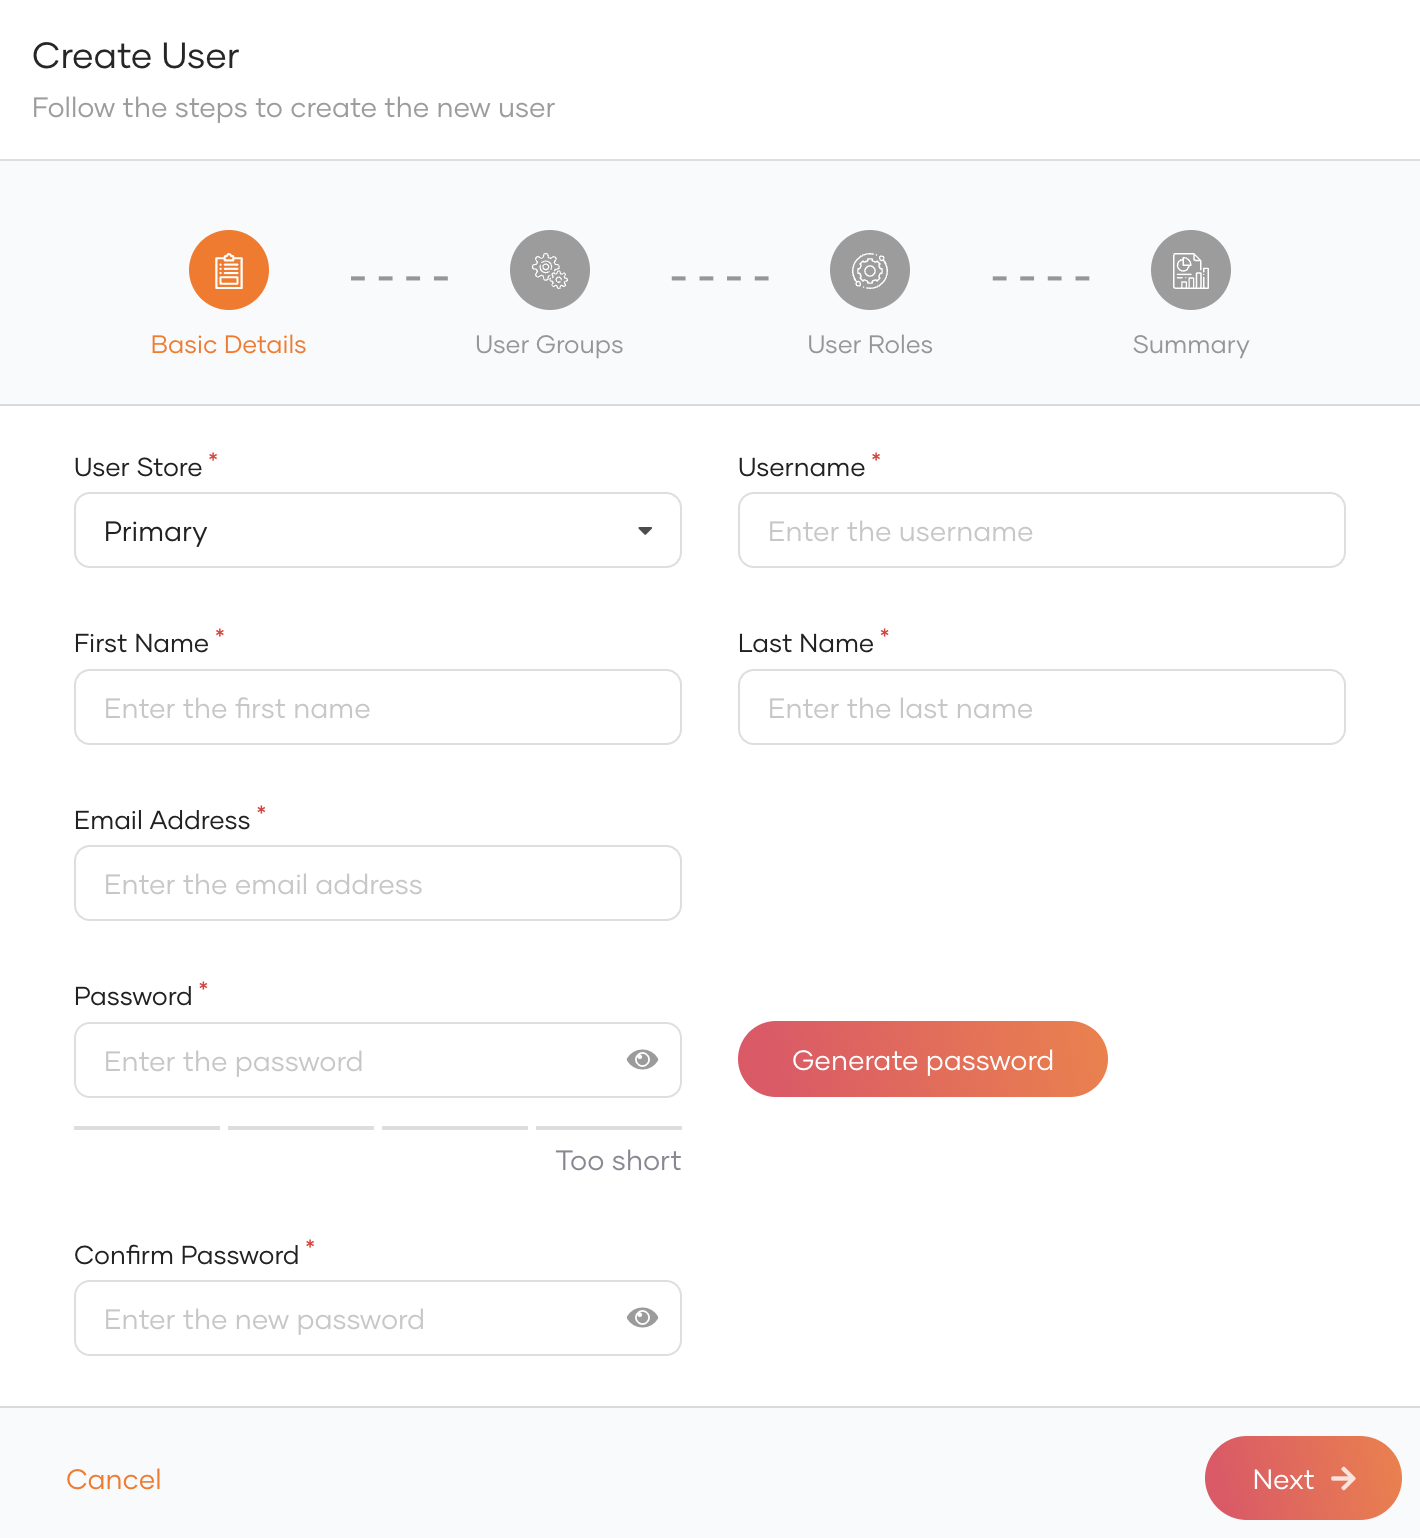
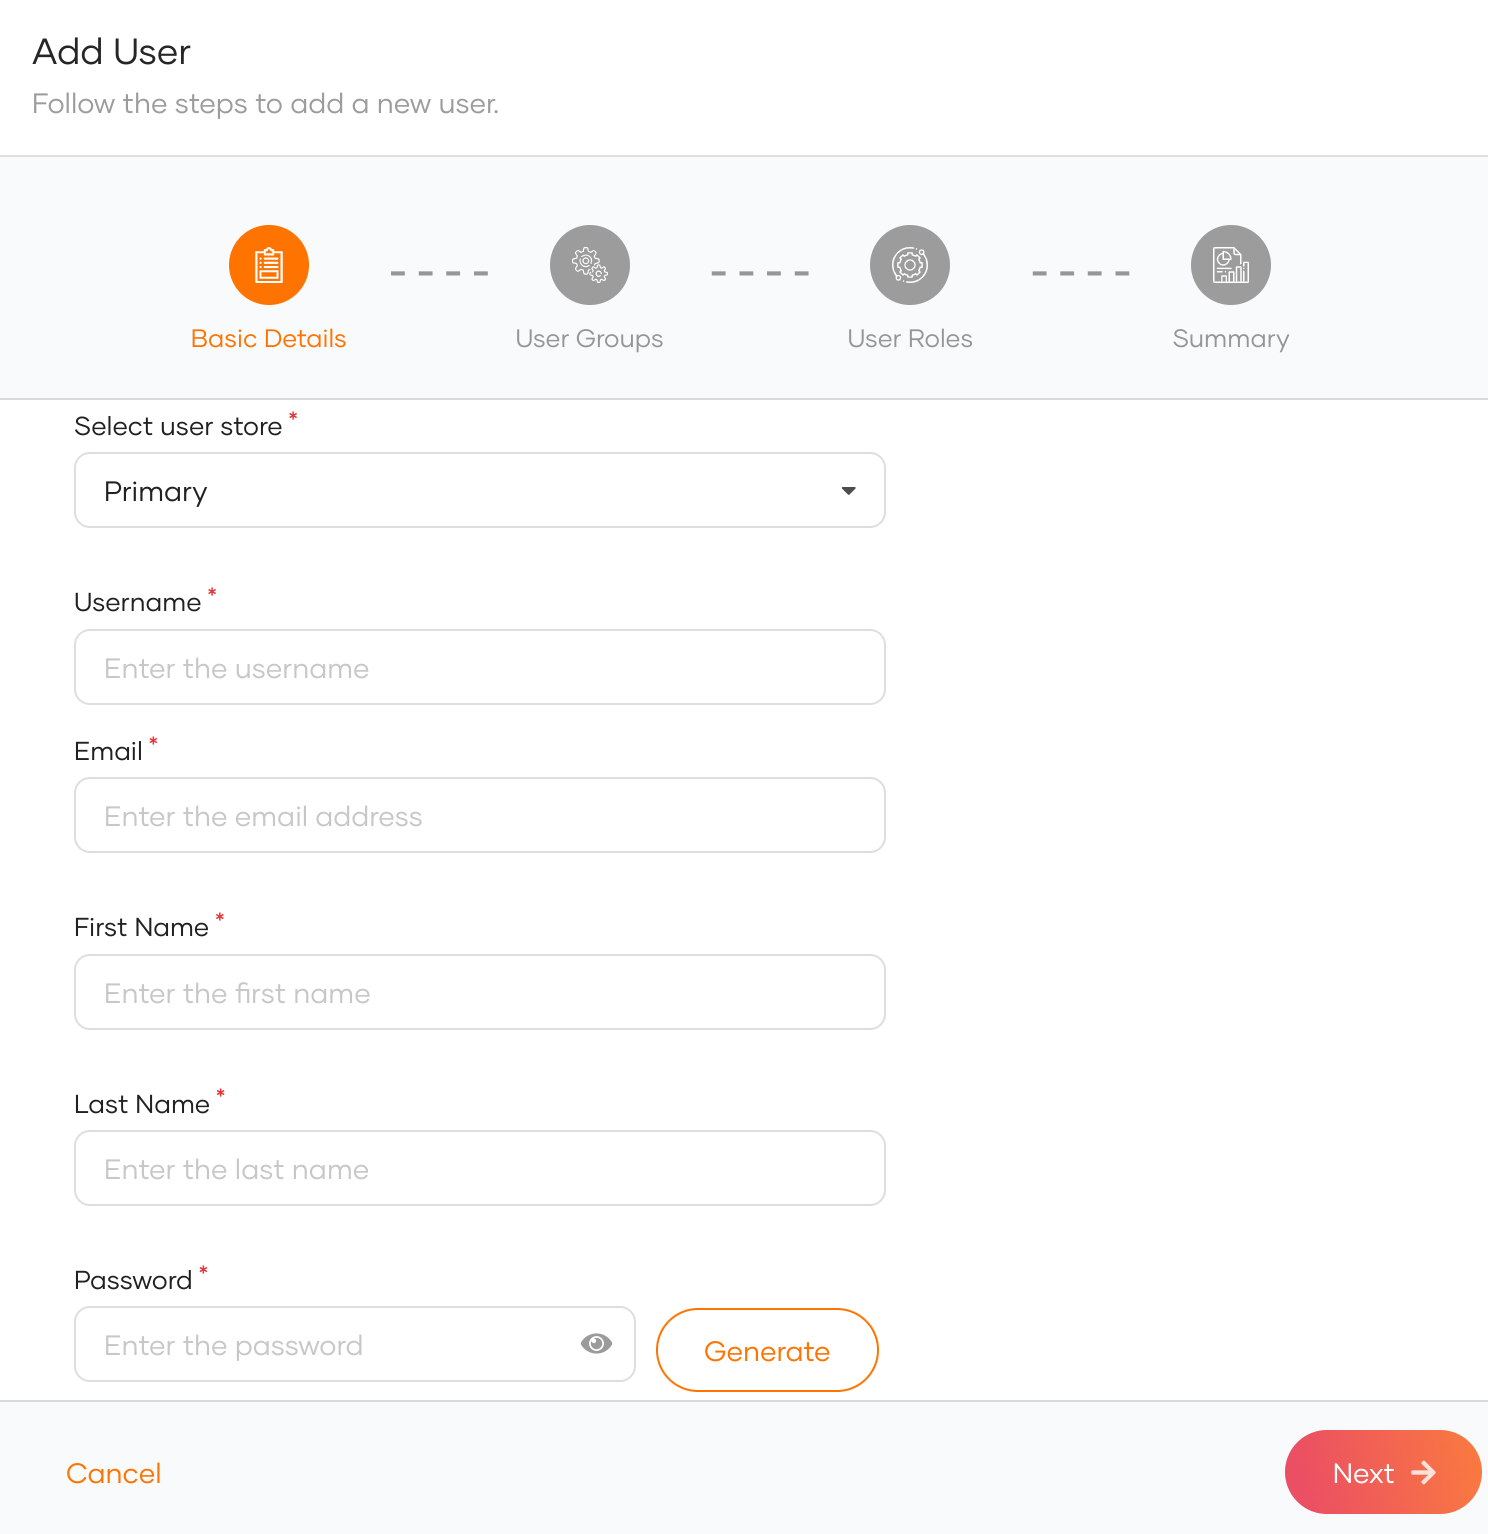
Update user management related docs

diff --git a/en/identity-server/next/docs/guides/users/manage-administrators.md b/en/identity-server/next/docs/guides/users/manage-administrators.md
@@ -9,40 +9,47 @@ This guide walks you through the steps of managing an administrator account. If 
 
 Administrators of your organization can follow the steps below to add another administrator:
 
-1. On the WSO2 Identity Server Console, go to **Organizational Settings** > **Administrators**.
+1. On the WSO2 Identity Server Console, go to **User Management** > **Users**.
 
-2. Click **Add Administrator** and provide the required details.
+2. Click **Add User** and provide the required details.
 
-    ![Add administrator user]({{base_path}}/assets/img/guides/users/add-administrator.png){: width="600" style="display: block; margin: 0 auto; border: 0.3px solid lightgrey;"}
+    ![Add administrator user]({{base_path}}/assets/img/guides/users/add-user-form.png){: width="600" style="display: block; margin: 0 auto; border: 0.3px solid lightgrey;"}
 
-3. Click **Next** to view the summary and click **Finish**.
+3. Click **Next**.
+
+4. Add the user to the **admin** group and click **Next**.
+
+5. Assign the user **Administrator** role and click **Next**.
+
+6. Review the summary and click **Finish**.
 
     !!! note
-        Once created, an administrator will be assigned the admin role and be made a member of the admin group.
+        The created administrator will be listed in the **Console Settings** page under the **Members** tab.
+
+        ![Administrator page]({{base_path}}/assets/img/guides/users/administrator-list.png){: width="1000"}
 
 ## Assign admin privileges to users
 
 You can assign admin privileges to existing users by following the instructions given below.
 
-1. On the WSO2 Identity Server Console, go to **User Management** > **Users**.
+1. On the WSO2 Identity Server Console, go to **Console Settings**.
 
-2. Click **Edit** next to the releveant user.
+2. Click **Add Administrator**.
 
-3. Go to the **Roles** tab and click **Edit**.
+3. Select the relevant user as the **username**.
 
-4. Select the **admin** role and click **Save**.
+4. Select the **Administrator** role.
+
+5. Click **Add**.
 
 ## Delete an administrator
 
 !!! warning Before you begin
-    Note the following:
-
-    - If the administrator you delete is a user with admin privileges, you will only be revoking the administrator privileges from the user. Deleting this administrator does not delete the user account.
-    - If the administrator is not a user, you will be deleting the user account from the organization. This action is irreversible.
+    When you delete an administrator, you will only be revoking the administrator privileges from the user. Deleting this administrator does not delete the user account. If you want to delete the user account, see [Delete a user]({{base_path}}/guides/users/manage-users/#delete-a-user).
 
 To delete an administrator:
 
-1. On the WSO2 Identity Server Console, click **Organizational Settings** > **Administrators**.
+1. On the WSO2 Identity Server Console, click **Console Settings**.
 2. Click **Delete** for the administrator you want to remove.
 3. Select the checkbox to confirm your action.
 4. Click **Confirm**.

diff --git a/en/identity-server/next/docs/guides/users/manage-users.md b/en/identity-server/next/docs/guides/users/manage-users.md
@@ -23,7 +23,7 @@ Let's look at how administrators can onboard users from the WSO2 Identity Server
     !!! note
 
         - A username is always unique to the organization and you can't change the username once it is created.
-        - Instead of using a username to login, you can [configure the email address as the login identifier]({{base_path}}/guides/user-accounts/account-login/username-validation/). Then, you will be asked to enter the email address when logging in.
+        - Instead of using a username to login, you can [configure email address as the username]({{base_path}}/guides/users/attributes/enable-email-as-username/). Then, you will be asked to enter the email address when logging in.
         - The user can change the password set by the administrator from the [My Account Portal]({{base_path}}/guides/user-self-service/customer-self-service-portal/).
 
 4. Click **Next**.
@@ -83,7 +83,7 @@ Administrators can reset a user's password or initiate the password reset proces
 
 To reset the password:
 
-1. Click **Reset password** at the top of the user's profile.
+1. Click **Reset password** at the bottom of the user's profile.
 
 2. Select a method to reset the user password:
 
@@ -94,7 +94,7 @@ To reset the password:
         If this option is selected, a password reset request can be sent to the user using one of the password recovery methods you have enabled for the organization.
 
         !!! note
-            Enable the relevant password recovery methods by navigating to **Login & Registration** > **Account Management** > **Password Reset**.
+            Enable the relevant password recovery methods by navigating to **Login & Registration**. Click on  **Password Recovery** under **Account Recovery** section.
 
     ![Reset password]({{base_path}}/assets/img/guides/users/reset-password-of-user.png){: width="600" style="display: block; margin: 0 auto; border: 0.3px solid lightgrey;"}
 

diff --git a/en/identity-server/next/docs/guides/users/index.md b/en/identity-server/next/docs/guides/users/index.md
@@ -8,8 +8,7 @@ The admins can grant users access to resources in your organization and control 
 
 Shown below are some main user management capabilities available in WSO2 Identity Server.
 
-![User management]({{base_path}}/assets/img/guides/users/user-management-overview.png)
-
+![User management]({{base_path}}/assets/img/guides/users/user-management-overview.png){: width="800" style="display: block; margin: 0 auto;"}
 ## User accounts
 
 WSO2 Identity Server supports the following types of user accounts based on their relationship to the organization.
@@ -22,13 +21,13 @@ An administrator can manage the organization and has access to the organization'
 * manage users, roles and groups
 * manage applications
 
-Refer [Managing administrators]({{base_path}}/guides/users/manage-collaborators/) for more information.
+Refer [Manage administrators]({{base_path}}/guides/users/manage-collaborators/) for more information.
 
 ### User
 
 A user registered in an organization can login and use applications in that organization.
 
-Refer [Managing users]({{base_path}}/guides/users/manage-customers/) for more information.
+Refer [Manage users]({{base_path}}/guides/users/manage-customers/) for more information.
 
 ## What's next?
 
